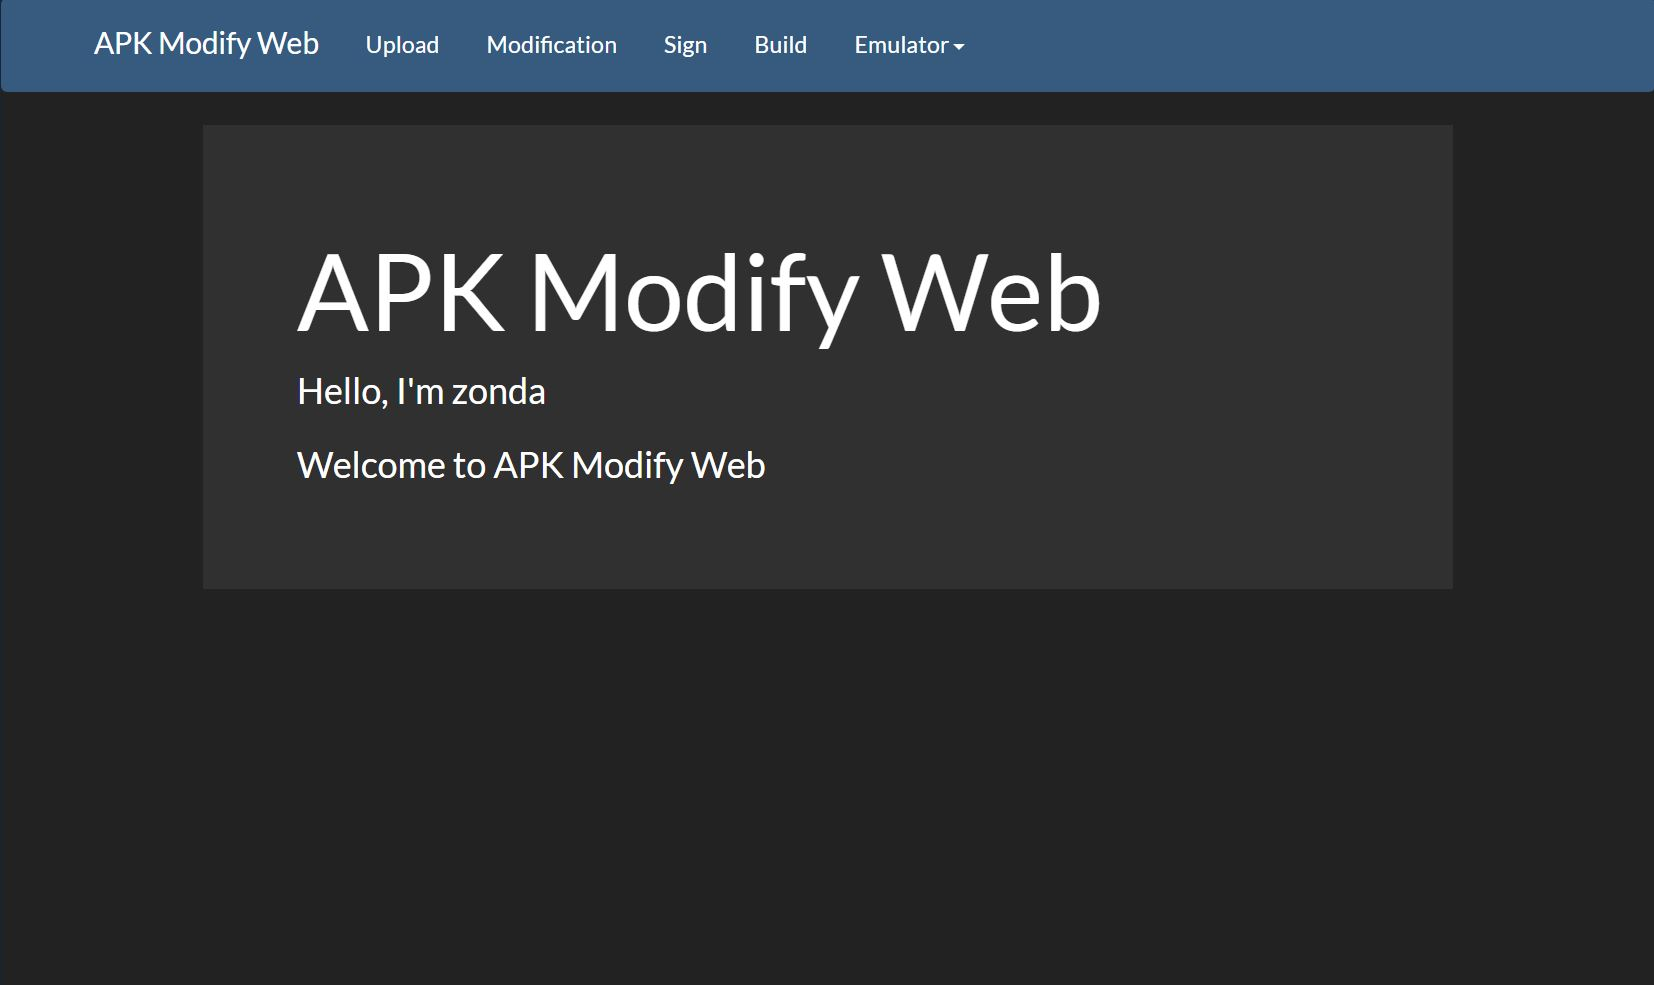
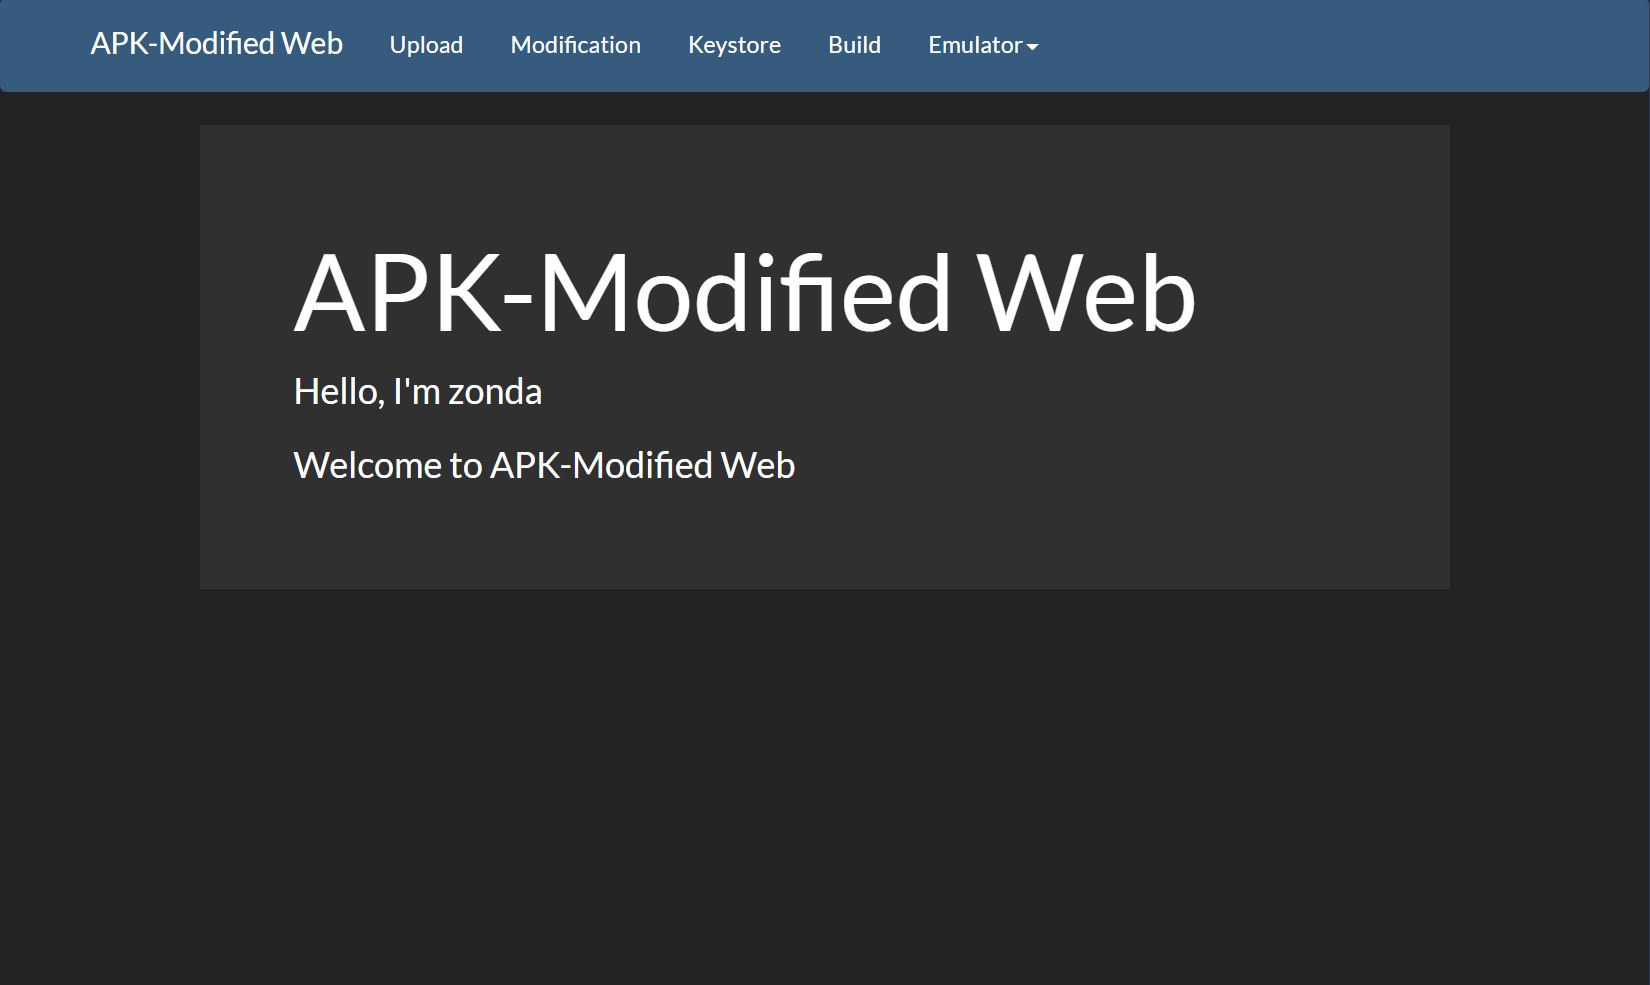
Add new feature: download

diff --git a/templates/keystore.html b/templates/keystore.html
@@ -8,12 +8,12 @@
 
 {% block section %}
     <ul class="nav nav-tabs", style="max-width: 500px; margin: 0 auto; padding-left: 60px; padding-right: 60px">
-        <li class="active"><a href="#exists_sign" data-toggle="tab">Exists Sign</a></li>
-        <li><a href="#new_sign" data-toggle="tab">New Sign</a></li>
+        <li class="active"><a href="#exists_keystore" data-toggle="tab">Exists Keystore</a></li>
+        <li><a href="#new_keystore" data-toggle="tab">New Keystore</a></li>
     </ul>
-    <div id="signTabContent" class="tab-content" , style="max-width: 500px; margin: 0 auto; padding-left: 60px; padding-right: 60px">
-        <div class="tab-pane fade active in" id="exists_sign">
-            <form @submit.prevent="exists_sign_submit" class="form-horizontal">
+    <div id="keystoreTabContent" class="tab-content" , style="max-width: 500px; margin: 0 auto; padding-left: 60px; padding-right: 60px">
+        <div class="tab-pane fade active in" id="exists_keystore">
+            <form @submit.prevent="exists_keystore_submit" class="form-horizontal">
                 <fieldset>
                     <div class="form-group">
                         <label for="inputStorepass" class="col-lg-2 control-label">Storepass</label>
@@ -26,7 +26,7 @@
                             <input type="text" class="form-control" id="inputAlias" name='alias' placeholder="Alias">
                         </div>
                         
-                        <label for="inputAlias" class="col-lg-2 control-label">Sign File</label>
+                        <label for="inputAlias" class="col-lg-2 control-label">Keystore File</label>
                         <div class="field">
                             <input type="file" name='file' multiple size="50">
                         </div>
@@ -40,8 +40,8 @@
                 </fieldset>
             </form>
         </div>
-        <div class="tab-pane fade" id="new_sign">
-            <form @submit.prevent="new_sign_submit" class="form-horizontal">
+        <div class="tab-pane fade" id="new_keystore">
+            <form @submit.prevent="new_keystore_submit" class="form-horizontal">
                 <fieldset>
                     <div class="form-group">
                         <label for="inputStorepass" class="col-lg-2 control-label">Storepass</label>
@@ -94,6 +94,7 @@
                         <div class="col-lg-10 col-lg-offset-2">
                             <button type="reset" class="btn btn-default">Cancel</button>
                             <button type="submit" class="btn btn-primary">Submit</button>
+                            <button type="button" @click="downloadKeystore" class="btn btn-success">Download Keystore</button>
                         </div>
                     </div>
                 </fieldset>
@@ -114,21 +115,21 @@
 {% block script %}
     <script>
        new Vue({
-            el: '#exists_sign',
+            el: '#exists_keystore',
             data: {
-                apiUrl_exists_sign: '/api/upload_exists_sign',
+                apiUrl_exists_keystore: '/api/upload_exists_keystore',
                 redirectURL: '/build'
             },
             methods: {
-                exists_sign_submit: function(event) {
+                exists_keystore_submit: function(event) {
                     // FormData支援把 Form 元素丟進去
                     var formData = new FormData(event.target)
                     console.log(formData)
-                    this.$http.post(this.apiUrl_exists_sign, formData)
+                    this.$http.post(this.apiUrl_exists_keystore, formData)
                         .then(function (response) {
                             window.location.href = this.redirectURL;
                     }, function (err) {
-                        alert('Sign Error')
+                        alert('Keystore Error')
                         console.log(err)
                     })
                 }
@@ -136,24 +137,28 @@
         })
 
         new Vue({
-            el: '#new_sign',
+            el: '#new_keystore',
             data: {
-                apiUrl_new_sign: '/api/new_sign',
-                redirectURL: '/build'
+                apiUrl_new_keystore: '/api/new_keystore',
+                redirectURL: '/build',
+                downloadUrl_keystore: '/download/keystore',
             },
             methods: {
-                new_sign_submit: function(event) {
+                new_keystore_submit: function(event) {
                     // FormData支援把 Form 元素丟進去
                     var formData = new FormData(event.target)
                     console.log(formData)
-                    this.$http.post(this.apiUrl_new_sign, formData)
+                    this.$http.post(this.apiUrl_new_keystore, formData)
                         .then(function (response) {
-                            window.location.href = this.redirectURL;
+                        alert('Create keystore success!')
                     }, function (err) {
-                        alert('Sign Error')
+                        alert('Keystore Error')
                         console.log(err)
                     })
-                }
+                },
+                downloadKeystore: function(event) {
+                     window.location.href = this.downloadUrl_keystore
+                },
             }
 
         })

diff --git a/templates/layout.html b/templates/layout.html
@@ -9,7 +9,7 @@
         <script src="../static/js/bootstrap.min.js"></script>
         <script src="../static/js/vue.js"></script>
         <script src="../static/js/vue-resource@1.3.3.js"></script>
-        <title>APK Modify Web</title>
+        <title>APK-Modified Web</title>
         {% block head %}{% endblock %}
     </head>
 
@@ -21,7 +21,7 @@
             <div class="navbar navbar-default">
                 <div class="container">
                     <div class="navbar-header">
-                        <a class="navbar-brand" @click="goHome">APK Modify Web</a>
+                        <a class="navbar-brand" @click="goHome">APK-Modified Web</a>
                         <button type="button" class="navbar-toggle" data-toggle="collapse" data-target="#navbar-main">
                             <span class="icon-bar"></span>
                             <span class="icon-bar"></span>
@@ -38,7 +38,7 @@
                                 <a @click="goModification">Modification</a>
                             </li>
                             <li>
-                                <a @click="goSign">Sign</a>
+                                <a @click="goKeystore">Keystore</a>
                             </li>
                             <li>
                                 <a @click="goBuild">Build</a>
@@ -84,7 +84,7 @@
                 redirectURL_indx: '/',
                 redirectURL_uplaod: '/upload',
                 redirectURL_modification: '/modification',
-                redirectURL_sign: '/sign',
+                redirectURL_keystore: '/keystore',
                 redirectURL_build: '/build',
                 redirectURL_emulator: '/emulator',
                 redirectURL_reinstall: '/reinstall',
@@ -99,8 +99,8 @@
                 goModification: function () {
                     window.location.href = this.redirectURL_modification;
                 },
-                goSign: function () {
-                    window.location.href = this.redirectURL_sign;
+                goKeystore: function () {
+                    window.location.href = this.redirectURL_keystore;
                 },
                 goBuild: function () {
                     window.location.href = this.redirectURL_build;

diff --git a/templates/build.html b/templates/build.html
@@ -7,12 +7,13 @@
 {% endblock %}
 
 {% block section %}
-    <div id="build_apk" class="jumbotron", style="max-width: 300px; margin: 0 auto; padding-left: 60px; padding-right: 60px">
+    <div id="build_apk" class="jumbotron", style="max-width: 400px; margin: 0 auto; padding-left: 60px; padding-right: 60px">
         <h2>Build APK</h2>
         <div id="build">
             <form @submit.prevent="submit" class="form-horizontal">
                 <fieldset>
                     <button type="submit" class="btn btn-success" style="margin: 0 auto; ">Build</button>
+                    <button type="button" @click="downloadNewApk" class="btn btn-success" style="margin: 0 auto; ">Download New APK</button>
                 </fieldset>
             </form>
         </div>
@@ -31,18 +32,21 @@
             el: '#build',
             data: {
                 apiUrl: '/api/build_and_sign_apk',
-                redirectURL: '/emulator'
+                redirectURL: '/emulator',
+                downloadUrl_new_apk: '/download/new_apk'
             },
             methods: {
                 submit: function(event) {
                     this.$http.post(this.apiUrl, )
                         .then(function (response) {
-                            window.location.href = this.redirectURL;
+                        alert('Build success!')
                     }, function (err) {
                         alert('Build Error')
                         console.log(err)
                     })
-
+                },
+                downloadNewApk: function(event) {
+                     window.location.href = this.downloadUrl_new_apk
                 }
             }
 

diff --git a/templates/index.html b/templates/index.html
@@ -8,9 +8,9 @@
 
 {% block section %}
     <div id="index" class="jumbotron", style="max-width: 800px; margin: 0 auto; padding-left: 60px; padding-right: 60px">
-        <h1>APK Modify Web</h1>
+        <h1>APK-Modified Web</h1>
         <p>Hello, I'm zonda</p>
-        <p>Welcome to APK Modify Web</p>
+        <p>Welcome to APK-Modified Web</p>
     </div>
 {% endblock %}
 

diff --git a/templates/modification.html b/templates/modification.html
@@ -219,7 +219,6 @@
         },
         methods: {
             submit_remove_file: function() {
-                console.log("haaaaaaaaaaaa")
                 this.$http.put(this.apiUrl_remove_file, file_list.current_file_object,
                     {headers: {'Content-Type':'application/json; charset=UTF-8'}})
                     .then(function (response) {

diff --git a/app.py b/app.py
@@ -8,7 +8,7 @@ from subprocess import PIPE, STDOUT
 
 from flask import Flask
 from flask import jsonify, request, json
-from flask import render_template
+from flask import render_template, send_file
 from werkzeug.utils import secure_filename
 
 import flask_config
@@ -87,33 +87,33 @@ def build_apk():
         .format(unpack_dir_path=flask_config.unpack_dir_path, 
                 apk_name=flask_config.apk_name)
 
-def create_sign(dict_sign_data):
+def create_keystore(dict_keystore_data):
     keytool_format = \
         ("\"{java_path}\keytool\" -genkey -v -keyalg DSA -keysize 1024 -sigalg SHA1withDSA -validity 20000 " + \
         "-keystore {keystore_path} -alias {alias} -keypass {keypass} -storepass {storepass}") \
         .format(java_path=flask_config.java_path,
                 keystore_path=flask_config.keystore_path,
-                alias=dict_sign_data['alias'],
-                keypass=dict_sign_data['keypass'],
-                storepass=dict_sign_data['storepass'])
+                alias=dict_keystore_data['alias'],
+                keypass=dict_keystore_data['keypass'],
+                storepass=dict_keystore_data['storepass'])
 
-    keytool_sign_info_format = \
+    keytool_keystore_info_format = \
         "{common_name}\n{organization_unit}\n{organization_name}\n{locality_name}\n{state_name}\n{country}\ny\n" \
-        .format(common_name=dict_sign_data['common_name'],
-                organization_unit=dict_sign_data['organization_unit'],
-                organization_name=dict_sign_data['organization_name'],
-                locality_name=dict_sign_data['locality_name'],
-                state_name=dict_sign_data['state_name'],
-                country=dict_sign_data['country'])
+        .format(common_name=dict_keystore_data['common_name'],
+                organization_unit=dict_keystore_data['organization_unit'],
+                organization_name=dict_keystore_data['organization_name'],
+                locality_name=dict_keystore_data['locality_name'],
+                state_name=dict_keystore_data['state_name'],
+                country=dict_keystore_data['country'])
     
     p = subprocess.Popen(keytool_format, stdout=PIPE, stdin=PIPE, stderr=STDOUT)
     
-    out = p.communicate(input=keytool_sign_info_format.encode())[0]
+    out = p.communicate(input=keytool_keystore_info_format.encode())[0]
     if 'Exception' in str(out):
-        print("Exception", str(out))
+        print("Exception", out.decode('UTF-8', 'strict'))
         return False
     else:
-        print("create sign success!")
+        print("create keystore success!")
 
 
 def sign_apk():
@@ -122,9 +122,9 @@ def sign_apk():
         "-keystore {keystore_path} -storepass {storepass} \"{apk_file_path}\" {alias}") \
         .format(java_path=flask_config.java_path,
                 keystore_path=flask_config.keystore_path,
-                storepass=flask_config.sign_storepass,
+                storepass=flask_config.keystore_storepass,
                 apk_file_path=flask_config.new_apk_file_path,
-                alias=flask_config.sign_alias)
+                alias=flask_config.keystore_alias)
                 
     p = subprocess.Popen(jarsigner_format, stdout=PIPE, stdin=PIPE, stderr=STDOUT)
     out = p.communicate()[0]
@@ -194,10 +194,8 @@ def getEmulatorDevices():
 
     ret_mes = subprocess.check_output(emulator_list_format, shell=True)
     device_list = [device.strip() for device in ret_mes.decode('utf-8').split('\n') if device]
-    flask_config.devices_list = []
     return_devices_list = []
     for idx, device in enumerate(device_list):
-        flask_config.devices_list.append(device)
         return_devices_list.append({
             "idx": idx,
             "device": device})
@@ -222,10 +220,8 @@ def getStartEmulatorDevices():
 
     device_list = [device.split('\t')[0].strip() for device in ret_mes.decode('utf-8').split('\n') \
         if device.strip() and len(device.split('\t')) == 2 and 'device' in device.split('\t')[-1]]
-    flask_config.start_devices_list = []
     return_start_devices_list = []
     for idx, device in enumerate(device_list):
-        flask_config.start_devices_list.append(device)
         return_start_devices_list.append({
             'idx': idx,
             'device': device
@@ -285,19 +281,21 @@ def remove_file():
     return jsonify()
 
 
-@app.route('/api/upload_exists_sign', methods=['POST'])
-def upload_exists_sign():
-    flask_config.sign_storepass = request.form['storepass']
-    flask_config.sign_alias = request.form['alias']
+@app.route('/api/upload_exists_keystore', methods=['POST'])
+def upload_exists_keystore():
+    flask_config.keystore_storepass = request.form['storepass']
+    flask_config.keystore_alias = request.form['alias']
     f = request.files.get('file')
     f.save(flask_config.keystore_path)
     return jsonify()
 
 
-@app.route('/api/new_sign', methods=['POST'])
-def new_sign():
+@app.route('/api/new_keystore', methods=['POST'])
+def new_keystore():
     dict_data = {key: value[0] for key, value in dict(request.form).items()}
-    create_sign(dict_data)
+    create_keystore(dict_data)
+    flask_config.keystore_storepass = dict_data['storepass']
+    flask_config.keystore_alias = dict_data['alias']
     return jsonify()
 
 
@@ -306,6 +304,16 @@ def build_and_sign_apk():
     build_apk()
     sign_apk()
     return jsonify()
+
+
+@app.route('/download/new_apk', methods=['GET'])
+def download_new_apk():
+    return send_file(flask_config.new_apk_file_path)
+	
+
+@app.route('/download/keystore', methods=['GET'])
+def download_keystore():
+    return send_file(flask_config.keystore_path)
 
 
 #--------------------------------------------------------------
@@ -340,9 +348,9 @@ def upload_file():
 def modification():
     return render_template('modification.html')
 
-@app.route('/sign')
-def sign():
-    return render_template('sign.html')
+@app.route('/keystore')
+def keystore():
+    return render_template('keystore.html')
 
 @app.route('/build')
 def build():

diff --git a/flask_config.py b/flask_config.py
@@ -16,9 +16,6 @@ android_manifest_xml_path = None
 package_name = None
 
 keystore_path = r'tmp\sign\sign.keystore'
-sign_storepass = ''
-sign_alias = ''
-
-devices_list = []
-start_devices_list = []
+keystore_storepass = ''
+keystore_alias = ''
 

diff --git a/README.md b/README.md
@@ -1,4 +1,4 @@
-# apk modify web
+# APK-Modified Web
 
 ## 目的
 Web顯示的修改apk工具，之所以會用Web顯示，是為了讓所有裝置都能使用，此工具會有RWD，所以開起來後，可以用平板和手機使用此工具喔！  
@@ -10,8 +10,10 @@ upload
 ![picture](picture/upload.JPG)  
 modification
 ![picture](picture/modification.JPG)    
-sign  
-![picture](picture/sign.JPG)  
+exists_keystore  
+![picture](picture/exists_keystore.JPG)  
+new_keystore  
+![picture](picture/new_keystore.JPG)  
 build  
 ![picture](picture/build.JPG)  
 start_emulator  
